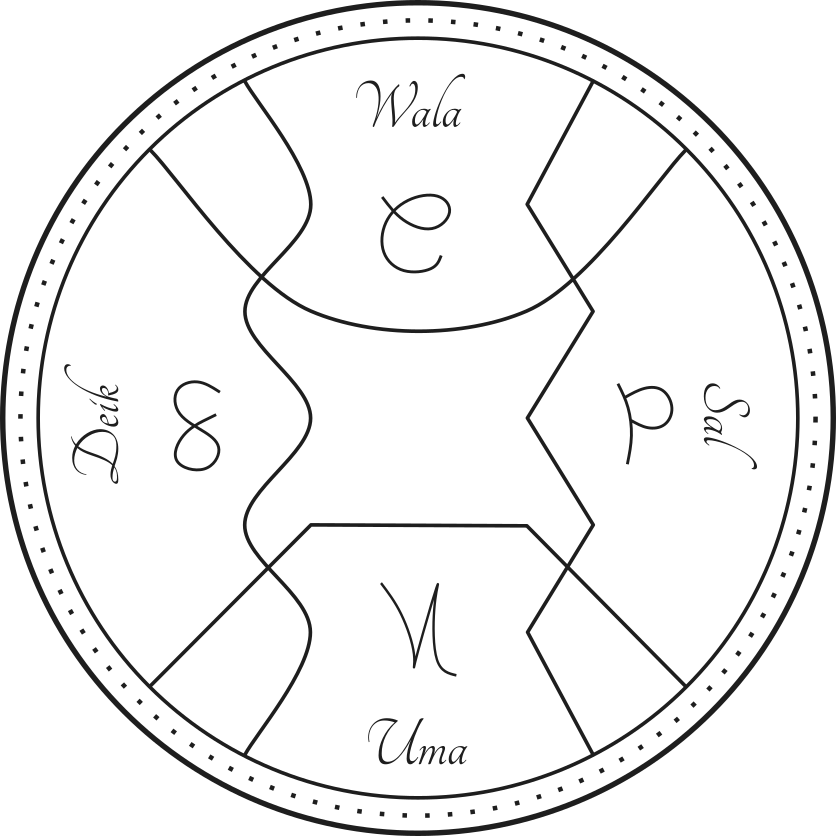
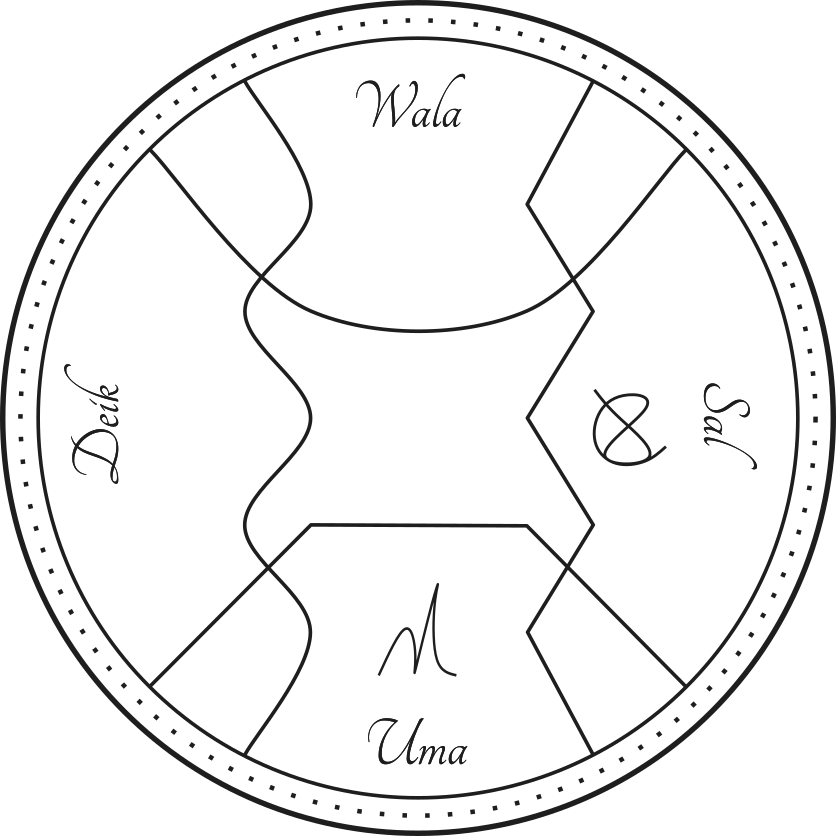
Quartz sync: Apr 5, 2025, 3:52 PM

diff --git a/content/Weaving/Rules of Weaving.md b/content/Weaving/Rules of Weaving.md
@@ -1,49 +1,62 @@
+
+## Axioms of Weaving
+
+The three fundamental axioms of weaving can be summarized as following:
+
+1) Priming and weaving cannot be done at the same time.
+2) All woven threads pass first through the weaver's spirit.
+3) A weave is only finished when its back into the fundamental spaces.
+
+These axioms are explored and detailed below.
+
 Conscious beings have spirits. Spirits are like self contained reflections of the fundamental spaces of the cosmos: they exist both in the hyperdimensional space of the cosmos and inside of the creature's mind and body, and is dissolved back into the cosmos in the instant the creature dies, unlike its physical body.
 
-## Priming
+## Gathering and Priming
 
 [[Threads|All threads ride on the fundamental threads]], always together with a combination of three depending on the direction of the flow. When a weaver gathers threads to weave them at their will, they are borrowing lone threads from the cosmos and using the Soul and Chaos from their own spirits to carry these threads. Thus any thread must first pass through the weaver, so that they can merge it with the fundamental threads of their own spirit.
 
-This process of imbuing lone threads with the fundamental threads of the weaver's spirit is called *priming*, a process that takes inward focus and energy, both physical and metal, and thus priming cannot be done at the same time as weaving, because weaving takes outward focus.
+The figure below represents the process of gathering a lone thread from the cosmos (left) and bringing it into the weaver's spirit, severing it from the cosmos (right) and thus making it ready for priming.
+
+![[Gathering.png#invert]]
+
+The figure below represents the process of priming the energetic line, that is, imbuing it with the fundamental threads from the weaver's own spirit and thus making it ready to use for weaving.
+
+![[Priming.png#invert]]
+
+The process of priming takes inward focus and energy, both physical and metal, and thus priming cannot be done at the same time as weaving, because weaving takes outward focus.
 
 The process of priming weaves can take hours or milliseconds, depending on the ability and knowledge of the weaver, the threads they are trying to use, the ease or difficulty they have with specific threads, and the amount they need to prime in order to achieve what they want.
 
 Both priming and weaving take some sort of effort. Priming takes both mental and physical effort, while weaving takes mostly only mental effort. Thus it is common for weavers to experience symptoms like tiredness, mental and physical fatigue, nausea, muscle pain, and even inability to prime and weave anything significant for some time as consequence of great displays of their abilities. These symptoms can be prevented both by physical training, to increase stamina, and weaving training, to reduced the number of lines that need to be primed for the desired effect.
 
-## Weaving
+## Weaving and Releasing
 
 Energetic threads are microscopic, thus when weavers gather these threads for weaving they are usually pulling millions of threads at once, which is the minimum to form visible threads with the width of a strand of hair or thicker, which are called lines.
 
 There are different ways of priming and handling weaves depending on the type. If the woven lines are loops, then one must gather the line from the cosmos through themselves and hold it in a loop, coming out from the Soul or Chaos portion of their spirit, moving through space towards where they want it to go, and bringing it back to their Soul or Chaos, always coming back to the same fundamental thread it left from.
 
-When handling flows, however, the effort is always doubled because the weaver must first create two strong opposing loops inside of their spirits and then use these as the launching platforms for the flow threads, making them move out of themselves and through the space they want in front of them and back to themselves but into the disparate thread.
+When handling flows, however, the effort is always doubled because the weaver must first create two strong opposing loops inside of their spirits and then use these as the starting point for the flow threads, making them move out of themselves and through the space they want in front of them and back to themselves but into the disparate thread.
 
-Each type of thread also have their own properties when handling them. Binds and rushes are harder to prime and keep, but are somewhat easier to weave as they need only point to point trace correction. Rings and fluxes are easier to prime and keep, but are harder to weave because they tend to spread and dissipate more easily, so focus must be on the entire thread.
+Each type of thread also have their own properties when handling them. Binds and rushes are harder to prime and keep, but are somewhat easier to weave as they need only point to point trace correction. Rings and fluxes are easier to prime and keep, but are harder to weave because they tend to spread and dissipate more easily, so focus must be on the entire line.
 
-There is also the problem of how to stop weaving, there are two main ways, weakening the prime inside of the weaver's spirit until it fades or handing it back into the cosmos.
+There is also the problem of how to stop weaving, there are two main ways, absorbing line into the weaver's spirit until it fades or returning it back into the cosmos.
 
-Weakening the weave until it dissipates is the most common and safe method, but it takes as much concentration and effort as creating the weaves.
+Absorbing the weave until it dissipates is the most common and safe method, but it takes as much concentration and effort as creating and using the weaves.
 
-Handing the weaves back into the cosmos is extremely dangerous but when mastered can be the most efficient method.
+![[Absorbing Weave.png#invert]]
 
-By borrowing lone threads from the cosmos and priming them with their own spirits, weavers make them not exist in the cosmos anymore, but inside of their own spirits, which is a kind of reflected and weakened cosmos. When gathering a million threads of the universe to make a single weaving line, the weaver is taking enough threads that would cause extreme effects if realized in the cosmos but realizing it in their faded cosmos, so the effect is greatly reduced. However, if a weaver hands these lines with millions of threads directly back into the cosmos as they are, they will realize their full potential in the cosmos, and thus can cause catastrophic effects such as explosions, transmutations, or unpredictable radiation. One can, however, hand back only a tiny part of the thread and canalize the weakening process of their spirits to the cosmos, releasing weaves almost instantly.
+Returning the weaves back into the cosmos is extremely dangerous but when mastered can be the most efficient method.
 
-The three fundamental axioms of weaving can be summarized as following:
+![[Returning Weave.png#invert]]
 
-1) All threads that the weaver wishes to weave into the world pass first through the weaver's spirit.
-2) Priming and weaving cannot be done at the same time.
-3) Primed weaves cannot be let go unless properly directed into the fundamental spaces.
+By borrowing lone threads from the cosmos and priming them with their own spirits, weavers make them not exist in the cosmos anymore, but inside of their own spirits, which is a kind of reflected and weakened cosmos. 
 
+When gathering a million threads of the universe to make a single weaving line, the weaver is taking enough threads that would cause extreme effects if realized in the cosmos but realizing it in their faded cosmos, so the effect is greatly reduced.
 
+However, if a weaver hands these lines with millions of threads directly back into the cosmos without also handing part of their spirit with it, then they will realize their full potential in the cosmos, and thus can cause catastrophic effects such as explosions, transmutations, or unpredictable radiation. One can, however, return the lines to the cosmos imbued with their own Soul and Chaos, releasing weaves almost instantly. This process is hard and painful as the weaver looses part of his spirit, which can be dangerous if the spirit becomes too weak, but the spirit does replenish slowly with time.
 
-
-
-Corollary 1.1
+## Priming and Weaving Time
 
 Because all threads that move in the world through a weaver's will move first through the weaver's spirit, there is a limit to how many threads one can weave at any given time, and thus a charging time is required.
 
-For example, given that the weaver wishes to weave thirty lines of Sinth and thirty lines of Deik, that is sixty lines, enough to set an entire house on fire, and they can only handle two lines at a time, one of each thread, lest they burn themselves from the inside out, and it takes two seconds for the weaver to gather the threads and pull it through themselves to make it ready in their hands, it would take sixty seconds for the weaver to gather enough threads together to then interweave it with the house.
-
-Corollary 2.1
-
-Priming is the process of passing a thread through a weaver's spirit, which is necessary for them to use the thread for weaving. While a weaver is focusing of priming their weaves they cannot, at the same time, be weaving other already primed weaves.
+For example, given that the weaver wishes to weave thirty lines of Sinth and thirty lines of Deik, that is sixty lines, enough to set an entire house on fire, and they can only handle two lines at a time, one of each thread, lest they burn themselves from the inside out, and it takes two seconds for the weaver to gather the threads and pull it through themselves to make it ready in their hands, it would take sixty seconds for the weaver to prime enough threads together to then interweave it with the house.

diff --git a/content/Common Weaves.md b/content/Common Weaves.md
@@ -1,0 +1,21 @@
+
+## Dual Weaves
+
+| Line  | Balance | Effect                                                                                                                                                                                                      |
+| ----- | ------- | ----------------------------------------------------------------------------------------------------------------------------------------------------------------------------------------------------------- |
+| T'ai  | Iji     | moving objects                                                                                                                                                                                              |
+| Glei  | Zidai   | imbues an object with a magnetic field                                                                                                                                                                      |
+| Mavan | Deren   | imbues an object with an electric field                                                                                                                                                                     |
+| Sinth | Deik    | heats up or cools down an object                                                                                                                                                                            |
+| Deren | Mavan   | controls creatures's minds by logic                                                                                                                                                                         |
+| Zidai | Glei    | controls creature's minds by emotion                                                                                                                                                                        |
+| Asor  | Iji     | directly control muscle contractions and thus bodily movement of creatures                                                                                                                                  |
+| Alca  | Deik    | directly controls the perceptions of any of the creature's senses, making it feel things or creates a link between weaver and creature/object where the weaver can feel what the creature/object is feeling |
+
+## Quadruple Weaves
+
+| Line A | Balance A | Line B | Balance B | Effect                                                                                                                                                                    |
+| ------ | --------- | ------ | --------- | ------------------------------------------------------------------------------------------------------------------------------------------------------------------------- |
+| Deren  | Zidai     | Alca   | Asor      | invades another creature's mind, feeling what they're feeling, acting through their body, and thinking what it's thinking                                                 |
+| Deren  | Zidai     | Asor   | Iji       | invades another creature's mind but protects the weaver from the creature's senses                                                                                        |
+| T'ai   | Iji       | Taren  | Nazem     | drags a specific element around it space, may be used to extract metals from earth, water from air humidity, and any other element from an amalgamation of other elements |

diff --git a/content/Weaving/index.md b/content/Weaving/index.md
@@ -6,6 +6,8 @@ Weaving, assembling, or stitching, are common terms for the art of directly mani
 
 Some conscious creatures have a spirit shape capable of perceiving and channeling the energetic threads of the cosmos through their will, like the [[Val|val]], bust most do not, like humans. However, given the biological similarities of humans and vals, it was not uncommon for human females to bear half valani and half human children during the [[Age of the Val]], which created humans with the ability to weave.
 
-Under the rule of the val, however, these half-blood humans were a taboo, and their weaving abilities were quickly cut out of them when they were born. After the demise of the val, however, the valani blood and power was able to run freely through the next human generations, up to this day.
-
 When humans first began to weave the *flow* of the cosmos it was mostly accidental and with unwanted consequences, but after the long years of the Long Night and the Age of the Dawn, the art was refined, and humans learned how and what they could or couldn't do by weaving, the [[Rules of Weaving|rules of weaving]].
+
+Weaves must always be balanced, that is, they need to exist with equal amounts of Soul and Chaos.
+
+The possibilities of what can be done by weaving are endless, but there is a [[Common Weaves|common set of weaves]] used for common effects.

diff --git a/content/Cosmology/Aspects.md b/content/Cosmology/Aspects.md
@@ -4,9 +4,9 @@ title: Aspects
 
 The Aspects which form the [[Realities|known realities]] are Charge, which defines properties related to mass and presence. Motive, which defines properties related to energy. Intent, which defines properties related to life. And Impetus, which defines properties related to the divine.
 
-## Charge
+## Intent
 
-The Aspect of Charge is found in pure threads shaping the movement of life, but it also has another property of interweaving with Taren to form *material weaves*.
+The Aspect of Intent is found in pure threads shaping the movement of life, but it also has another property of interweaving with Taren to form *material weaves*.
 
 - Deren - mind, forms the reasoning skills of life and the element mercury;
 - Asor - action, forms the movement of life, muscles, and the element carbon;

diff --git a/content/History/Age of the Val.md b/content/History/Age of the Val.md
@@ -1,0 +1,1 @@
+Under the rule of the val, however, these half-blood humans were a taboo, and their weaving abilities were quickly cut out of them when they were born. After the demise of the val, however, the valani blood and power was able to run freely through the next human generations, up to this day.
